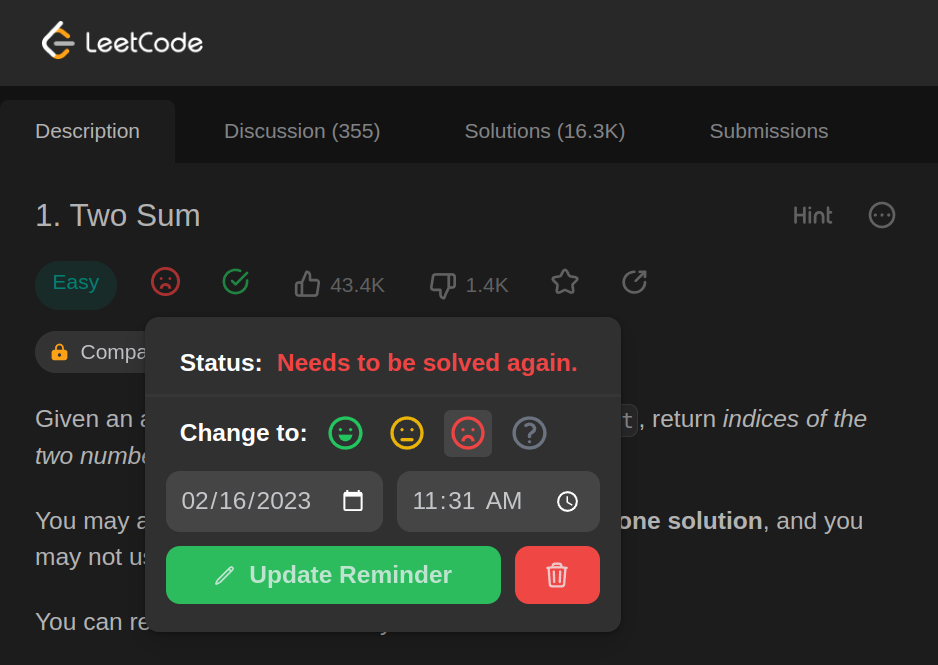
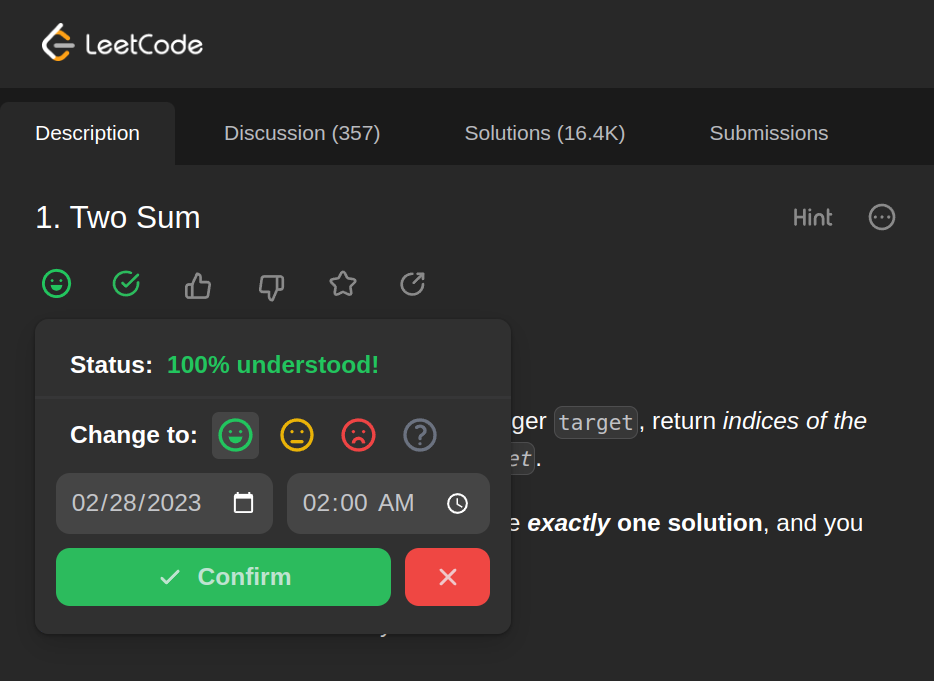
docs: update README

diff --git a/Readme.md b/Readme.md
@@ -7,6 +7,10 @@ It also provides a reminder for the problems you are not sure about.
 ## Features
 - Set the status of a problem (Happy, Neutral, Sad, or None)
 - Set a reminder for a problem (a notification will be shown in the browser)
+- Hides:
+  - Problem difficulty
+  - Problem likes and dislikes count
+  - Problem statistics
 - Seamless integration with LeetCode
 
 ## Installation
@@ -25,3 +29,4 @@ After installing the extension, a new button will be added below the problem nam
 through which you can set the status of the problem and/or set a reminder for it.
 ![Set Status](./docs/set_status.png)
 ![Set Reminder](./docs/add_reminder.png)
+![Update Reminder](./docs/update_reminder.png)
